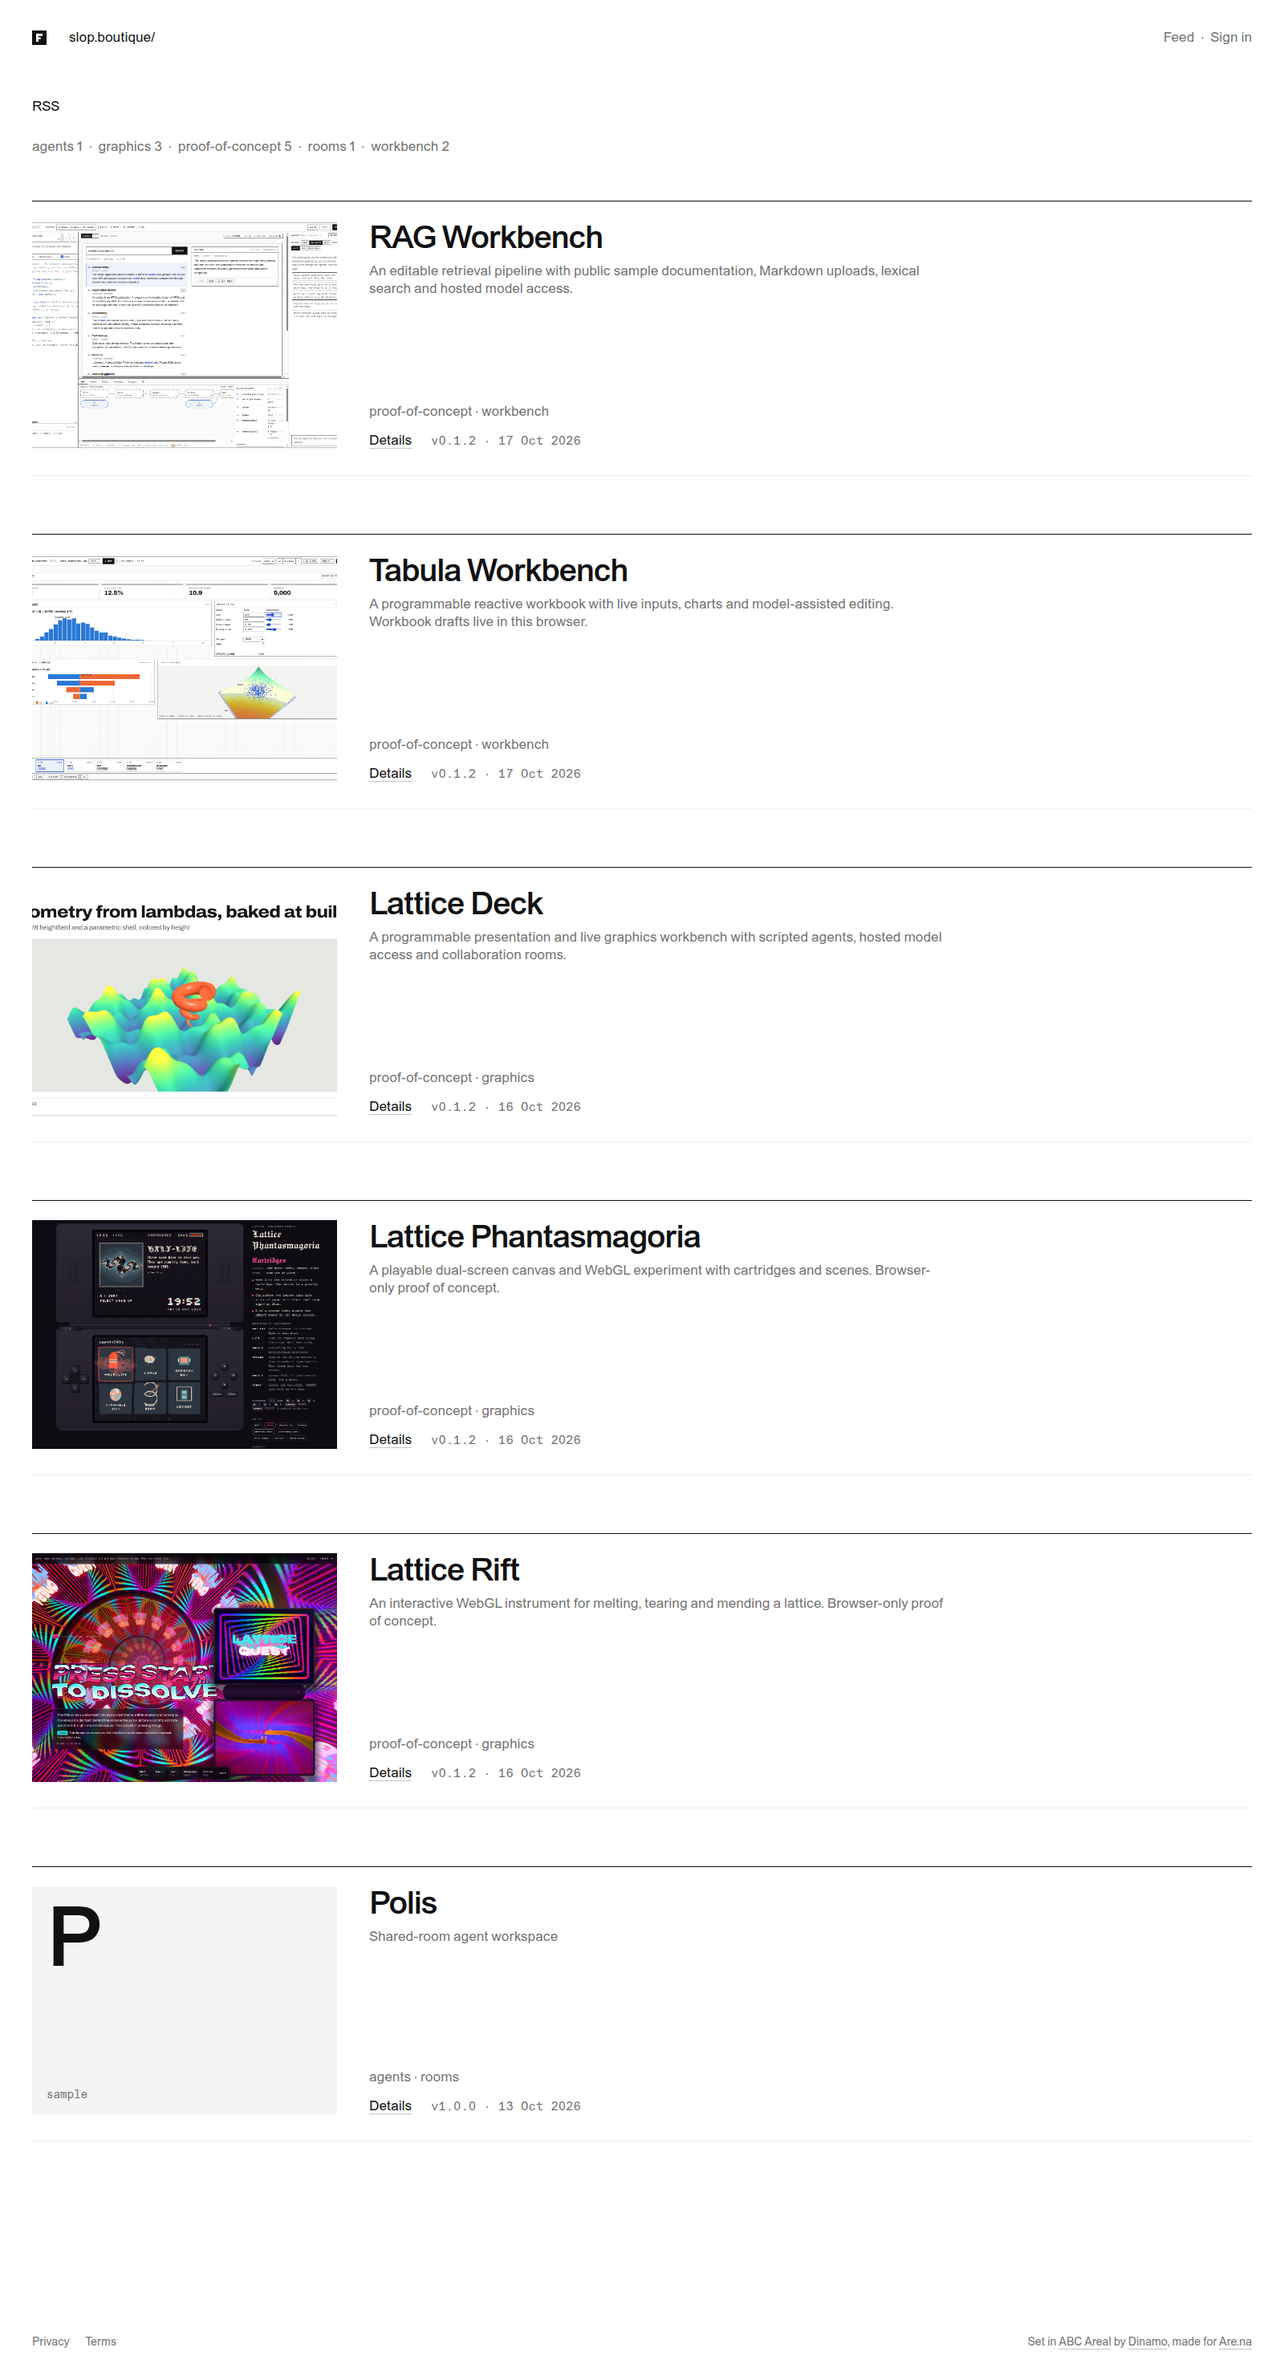
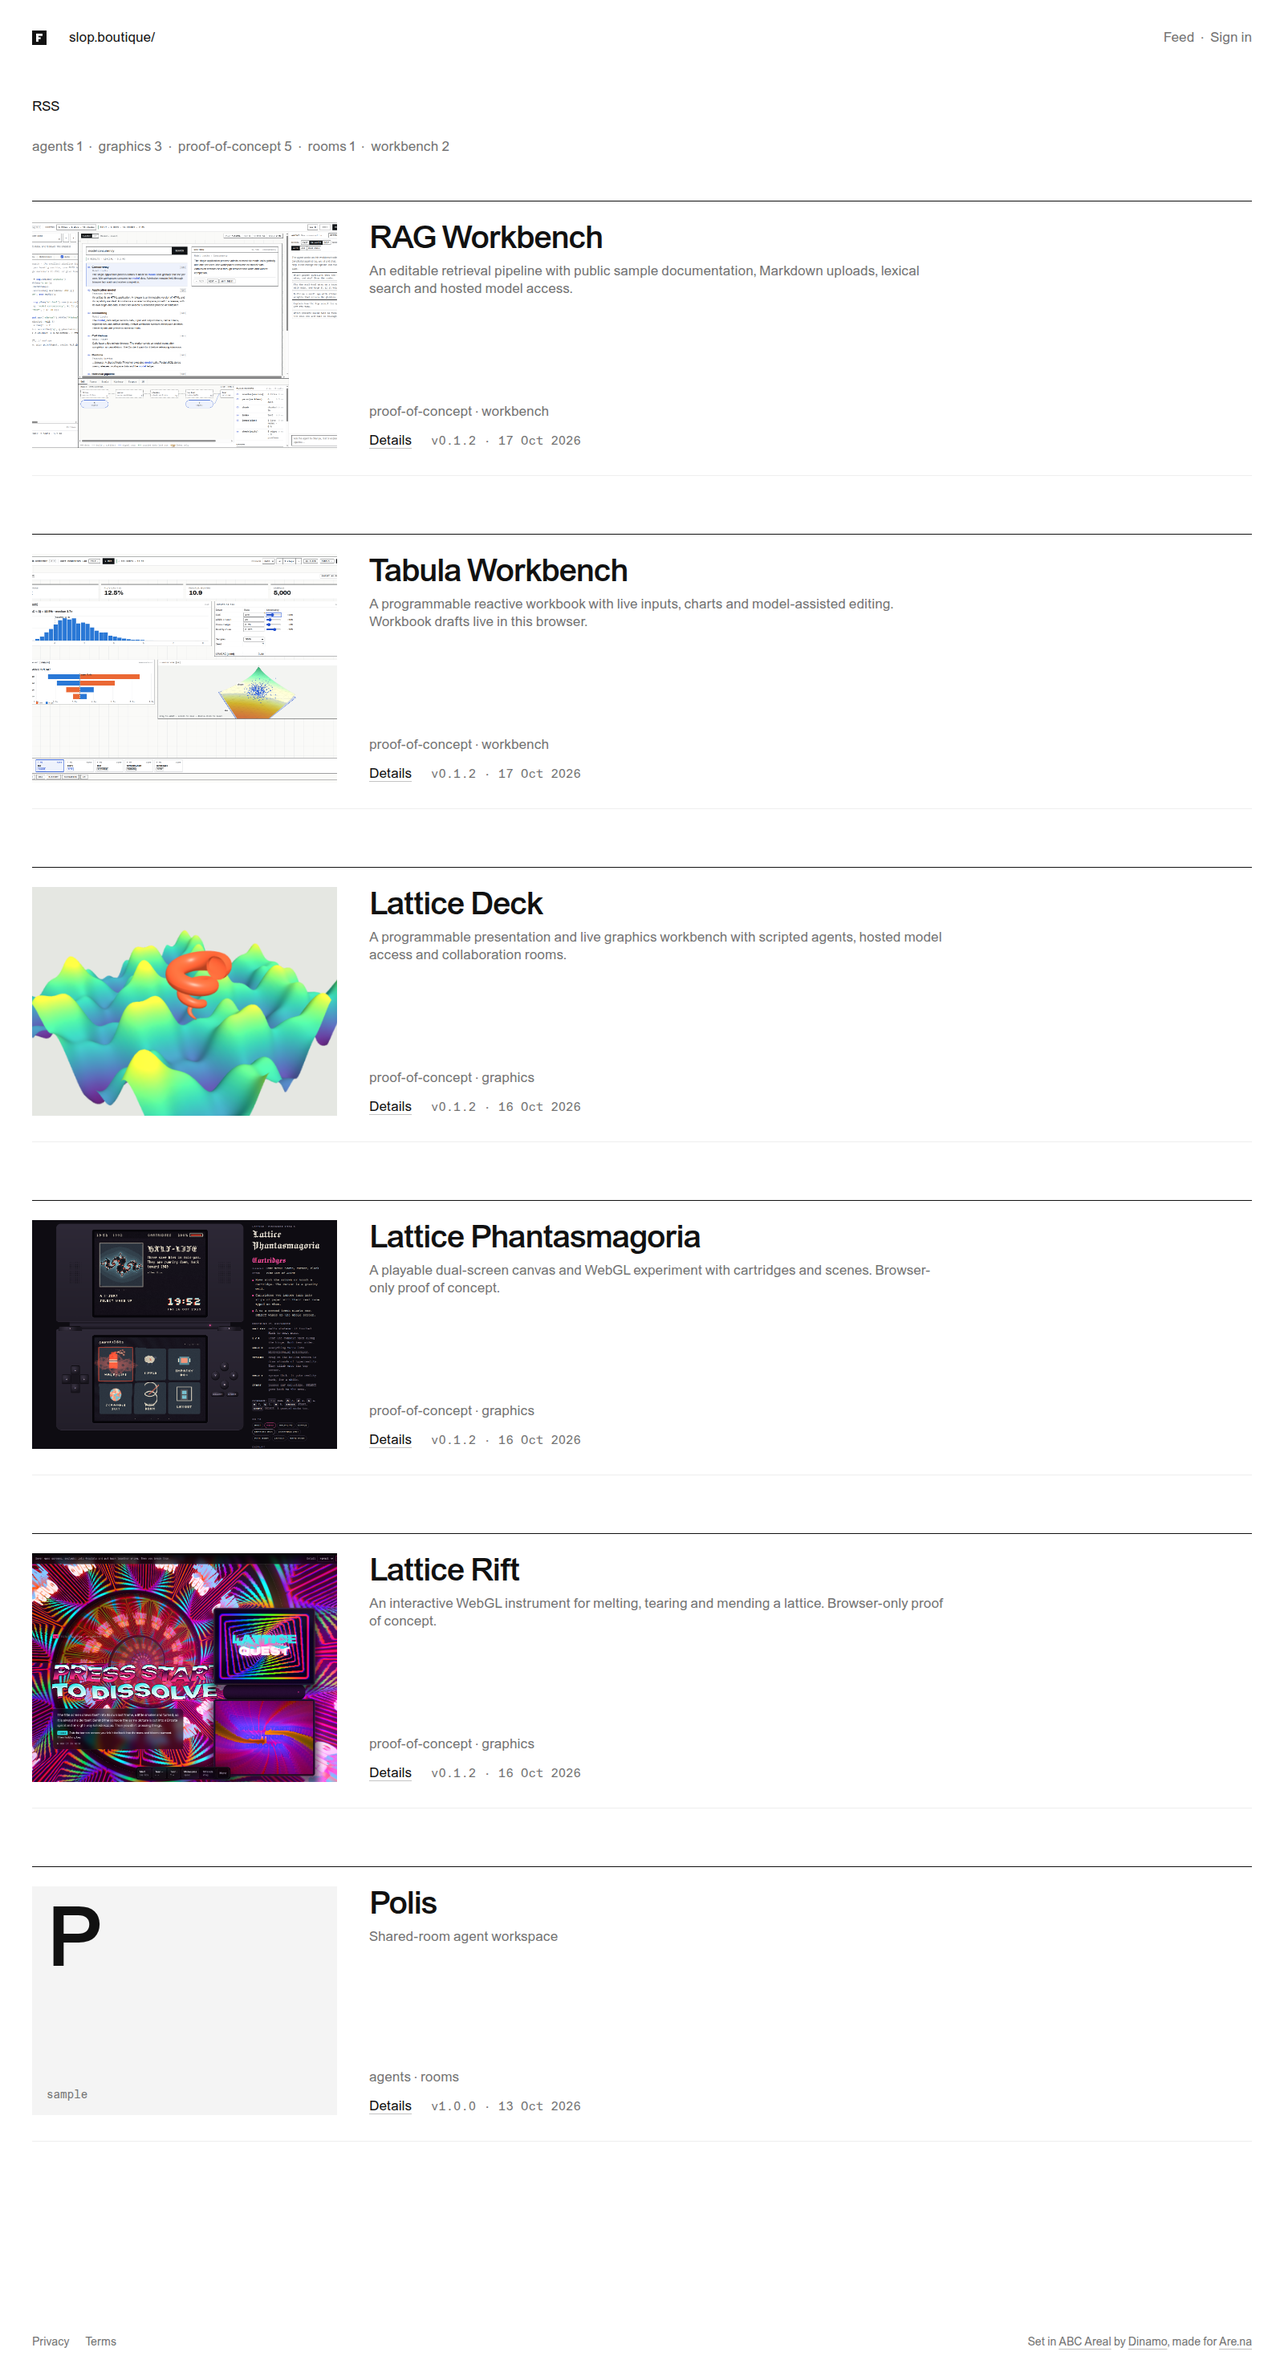
docs: record public gallery refinement and verified production rollout

Changed region(s): [[0.0, 0.373, 0.2812, 0.4973]]

diff --git a/ttmp/2026/10/16/FRANCOIS-009--import-real-html-artifacts-as-hosted-proofs-of-concept/scripts/07-capture-showcase.js b/ttmp/2026/10/16/FRANCOIS-009--import-real-html-artifacts-as-hosted-proofs-of-concept/scripts/07-capture-showcase.js
@@ -51,6 +51,7 @@ async (page) => {
         await f.locator('.preset-menu button').filter({hasText:preset}).first().click();
         await p.waitForTimeout(800);await f.getByTitle('Present: hide the panels',{exact:true}).click();await p.waitForTimeout(1300);
         await shot(p,name,f.locator('.ls-slide'));
+        if(preset==='Procedural 3D')await shot(p,'lattice-deck-cover',f.locator('.ls-slide canvas'));
       }
     }finally{await p.close();}
   }

diff --git a/ttmp/2026/10/16/FRANCOIS-009--import-real-html-artifacts-as-hosted-proofs-of-concept/scripts/09-publish-galleries.py b/ttmp/2026/10/16/FRANCOIS-009--import-real-html-artifacts-as-hosted-proofs-of-concept/scripts/09-publish-galleries.py
@@ -9,7 +9,8 @@ TICKET = Path(__file__).resolve().parents[1]
 REPO = next(p for p in TICKET.parents if (p / 'go.mod').is_file())
 parser = argparse.ArgumentParser()
 parser.add_argument('--token-file', required=True)
-parser.add_argument('--admin-token-file', required=True)
+parser.add_argument('--admin-token-file', help='Also enable bounded tours; requires explicit administrative approval')
+parser.add_argument('--artifact', help='Update only this artifact when refining a gallery')
 args = parser.parse_args()
 BASE = 'https://slop.boutique'
 plan = json.loads((TICKET / 'sources/showcase.json').read_text())
@@ -34,6 +35,8 @@ def cli(*command, admin=False):
 
 for app in plan['artifacts']:
     slug = app['id']
+    if args.artifact and slug != args.artifact:
+        continue
     current = cli('artifacts', 'show', slug)[0]
     if current['artifact'].get('pageDraft'):
         raise RuntimeError(slug + ' has an existing unpublished page draft; preserve it')
@@ -83,22 +86,23 @@ for app in plan['artifacts']:
     save()
     print('Published gallery/public release', slug, len(media_ids), flush=True)
 
-# The user explicitly approved the separate admin token for this one setting.
-current = cli('settings', 'show', admin=True)[0]
-doc = current['document']
-before = json.loads(json.dumps(doc))
-if not doc['demo']['enabled']:
-    doc['demo']['enabled'] = True
-    settings_file = Path('/tmp/francois-009-private/tours-settings.json')
-    settings_file.write_text(json.dumps(doc))
-    settings_file.chmod(0o600)
-    cli('settings', 'apply', '--file', str(settings_file), '--base', str(current['revision']), '--yes', admin=True)
-after = cli('settings', 'show', admin=True)[0]
-expected = json.loads(json.dumps(before))
-expected['demo']['enabled'] = True
-assert after['document'] == expected, 'Only demo.enabled may change'
-receipt['tours'] = {'beforeRevision': current['revision'], 'revision': after['revision'],
-                    'before': before['demo'], 'after': after['document']['demo'],
-                    'onlyDemoEnabledChanged': True}
-save()
-print('Enabled bounded public tours, revision', after['revision'], flush=True)
+if args.admin_token_file:
+    # The user explicitly approved the separate admin token for this setting.
+    current = cli('settings', 'show', admin=True)[0]
+    doc = current['document']
+    before = json.loads(json.dumps(doc))
+    if not doc['demo']['enabled']:
+        doc['demo']['enabled'] = True
+        settings_file = Path('/tmp/francois-009-private/tours-settings.json')
+        settings_file.write_text(json.dumps(doc))
+        settings_file.chmod(0o600)
+        cli('settings', 'apply', '--file', str(settings_file), '--base', str(current['revision']), '--yes', admin=True)
+    after = cli('settings', 'show', admin=True)[0]
+    expected = json.loads(json.dumps(before))
+    expected['demo']['enabled'] = True
+    assert after['document'] == expected, 'Only demo.enabled may change'
+    receipt.setdefault('tours', {'beforeRevision': current['revision'], 'revision': after['revision'],
+                                'before': before['demo'], 'after': after['document']['demo'],
+                                'onlyDemoEnabledChanged': True})
+    save()
+    print('Enabled bounded public tours, revision', after['revision'], flush=True)

diff --git a/ttmp/2026/10/16/FRANCOIS-009--import-real-html-artifacts-as-hosted-proofs-of-concept/reference/02-screenshot-and-report-evidence-index.md b/ttmp/2026/10/16/FRANCOIS-009--import-real-html-artifacts-as-hosted-proofs-of-concept/reference/02-screenshot-and-report-evidence-index.md
@@ -67,7 +67,7 @@ The original RAG corpus is excluded, including notes marked publish:false. The p
 
 ## Curated public covers and galleries
 
-A second capture pass responds to the request for attractive screenshots and multiple views per app. Sixteen actual application images are published: one cover per app, two further gallery views for Rift/Phantasmagoria/Deck/RAG, and three further views for Tabula. Workspaces use the production HTML hashes, built-in examples and the public sample corpus. Deck/Tabula figures use direct slide-element crops; other figures use a 1800×1125 viewport. These are browser captures, not mockups or retouched illustrations.
+A second capture pass responds to the request for attractive screenshots and multiple views per app. Seventeen actual application images are published: one cover per app, two further gallery views for Rift/Phantasmagoria/RAG, and three further views for Deck and Tabula. Deck uses a scene-only cover crop so catalog thumbnails do not truncate the slide headline. Workspaces use the production HTML hashes, built-in examples and the public sample corpus. Deck/Tabula figures use direct slide-element crops; other figures use a 1800×1125 viewport. These are browser captures, not mockups or retouched illustrations.
 
 The image-selection manifest [sources/showcase.json](../sources/showcase.json) records captions, dimensions, PNG hashes and source HTML hashes. The [CLI publication receipt](../various/gallery-publication-receipt.json) records actual media IDs, cover/gallery order, public release IDs and the preserved tour policy. The [public verification receipt](../various/public-gallery-verification.json) records unauthenticated page/image/download checks and the real bounded tour.
 
@@ -75,8 +75,10 @@ The image-selection manifest [sources/showcase.json](../sources/showcase.json) r
 | --- | --- | --- |
 | lattice-rift | [rift-title](../various/showcase/rift-title.png), [rift-arcade](../various/showcase/rift-arcade.png), [rift-world](../various/showcase/rift-world.png) | [View](https://slop.boutique/apps/lattice-rift) |
 | lattice-phantasmagoria | [phantasmagoria-menu](../various/showcase/phantasmagoria-menu.png), [phantasmagoria-cartridge](../various/showcase/phantasmagoria-cartridge.png), [phantasmagoria-kipple](../various/showcase/phantasmagoria-kipple.png) | [View](https://slop.boutique/apps/lattice-phantasmagoria) |
-| lattice-deck | [lattice-deck-procedural](../various/showcase/lattice-deck-procedural.png), [lattice-deck-motion](../various/showcase/lattice-deck-motion.png), [lattice-deck-charts](../various/showcase/lattice-deck-charts.png) | [View](https://slop.boutique/apps/lattice-deck) |
+| lattice-deck | [lattice-deck-cover](../various/showcase/lattice-deck-cover.png), [lattice-deck-procedural](../various/showcase/lattice-deck-procedural.png), [lattice-deck-motion](../various/showcase/lattice-deck-motion.png), [lattice-deck-charts](../various/showcase/lattice-deck-charts.png) | [View](https://slop.boutique/apps/lattice-deck) |
 | tabula-workbench | [tabula-overview](../various/showcase/tabula-overview.png), [tabula-story](../various/showcase/tabula-story.png), [tabula-sensitivity](../various/showcase/tabula-sensitivity.png), [tabula-landscape](../various/showcase/tabula-landscape.png) | [View](https://slop.boutique/apps/tabula-workbench) |
 | rag-workbench | [rag-search](../various/showcase/rag-search.png), [rag-trace](../various/showcase/rag-trace.png), [rag-corpus](../various/showcase/rag-corpus.png) | [View](https://slop.boutique/apps/rag-workbench) |
 
 Use these curated images for the main vault-report figures. Retain the earlier startup/production screenshots as implementation evidence. Final public presentation captures include [the illustrated catalog](../various/showcase/catalog-public-covers.png), [the Deck gallery](../various/showcase/deck-public-gallery.png), and [an anonymous RAG tour](../various/showcase/rag-anonymous-tour.png).
+
+The final [portal rollout verification](../various/portal-rollout-verification.json) supersedes the earlier image-count check: all seventeen images load, each app has exactly one current HTML download, and two fresh anonymous instance titles exactly match their public pages. It also verifies twenty-minute tour lifetimes and title cleanup on Close, without model calls. [Deployment evidence](../various/portal-deployment-receipt.json) identifies the source/GitOps commits, running image and healthy replica. [Deck instance](../various/showcase/lattice-deck-instance-title.png) and [RAG instance](../various/showcase/rag-workbench-instance-title.png) show the launched applications; document.title assertions come from the JSON receipt because browser viewport screenshots do not include tab chrome.

diff --git a/ttmp/2026/10/16/FRANCOIS-009--import-real-html-artifacts-as-hosted-proofs-of-concept/reference/01-implementation-diary.md b/ttmp/2026/10/16/FRANCOIS-009--import-real-html-artifacts-as-hosted-proofs-of-concept/reference/01-implementation-diary.md
@@ -368,3 +368,18 @@ Start with pkg/catalog/pages.go, pkg/catalog/instances.go, ui/catalog/instances.
 ### Technical details
 
 Source PR: https://github.com/go-go-golems/francois/pull/8. Final browser title format is artifact.Title + " · " + session.brand. No additional settings fields, migrations, queue or service were introduced. Current public HTML/media and tour policy were already verified independently of this service-code rollout.
+
+
+#### Release and cover refinement checkpoint
+
+All source checks passed on final head 0ac2190, including the image build, GoSec, CodeQL, tests and lint. The P1 review thread is resolved after the publication-time fix. PR #8 merged as 0440798cc622b214a74136f10344e058895eddd1; the normal main-branch image/GitOps release is in progress. gh pr edit encountered the installed client's deprecated Projects (classic) GraphQL field; a REST PATCH updated the PR title/description successfully. No required checks were bypassed.
+
+The catalog's fixed-aspect thumbnail cropped the heading in Deck's full-slide cover. Added a direct canvas screenshot as its cover and retained the complete procedural slide in the gallery. There are now seventeen curated images: five covers and twelve gallery entries. The Studio-token CLI updated only Deck's images; all free-sample release HTML hashes and tour settings remain unchanged. The earlier sixteen-image checkpoint remains the historical first publication.
+
+#### Production rollout and final verification checkpoint
+
+The normal main-branch image workflow 38985147906 published ghcr.io/go-go-golems/francois:sha-0440798. GitOps PR https://github.com/wesen/2026-03-27--hetzner-k3s/pull/360 passed validation and merged as 083adeaccd3dc3247b7d5f7eef05151ebd5f154d. Its sole deployment change pins the image from sha-fda5382 to sha-0440798. The deployment reports one desired, updated, ready and available replica; Argo CD reports that GitOps revision Synced and Healthy. No settings or schema changes were made by this release.
+
+Ran node scripts/11-verify-portal-rollout.mjs (from the ticket directory) against production in a fresh unauthenticated Chromium context; exit 0. All five pages return 200, each exposes exactly one Download HTML and no Manifest link, and all seventeen cover/gallery images load. New anonymous Deck and RAG tours have document titles exactly equal to their corresponding public page titles: Lattice Deck · slop.boutique and RAG Workbench · slop.boutique. Both retain the exact twenty-minute expiry, and Close restores a non-instance page title. These two checks make no model calls. Existing open instance tabs need a refresh to load the updated portal JavaScript; the user's existing tab was left untouched.
+
+Evidence is various/portal-rollout-verification.json and various/portal-deployment-receipt.json. Refreshed the illustrated catalog and Deck-gallery captures, and added the two instance captures. The evidence index links the final receipts and figures for the later vault report. No new failure occurred during this checkpoint. Source implementation is deployed from PR #8; the separate import branch retains the reproducible source archive and report evidence. No requested implementation or deployment work remains for this ticket's follow-ups.

diff --git a/ttmp/2026/10/16/FRANCOIS-009--import-real-html-artifacts-as-hosted-proofs-of-concept/design-doc/01-artifact-import-adaptation-and-publication-guide.md b/ttmp/2026/10/16/FRANCOIS-009--import-real-html-artifacts-as-hosted-proofs-of-concept/design-doc/01-artifact-import-adaptation-and-publication-guide.md
@@ -151,7 +151,7 @@ The initial functional qualification is recorded in `various/production-receipt.
 
 Public discovery, RSS and the current HTML downloads require no login. After the user requested public access, all five artifacts were marked listed, free-plan eligible and demo-enabled; the existing global demo switch was enabled at settings revision 2. Tours retain 20 minutes, three starts per user/address per hour, five credits per tour, a shared daily budget of 200 and a maximum of 20 active tours. Global model/storage limits remain unchanged. Explicitly approved one-day admin credentials were used only for that single settings change; all content publication used the Studio token and Francois CLI.
 
-`scripts/07-capture-showcase.js` creates the sixteen curated images and `sources/showcase.json` records their captions/hashes. `08-bootstrap-cli-token.mjs` bootstraps a one-day Studio token; its --admin mode requires explicit approval and was approved for the tour switch. `09-publish-galleries.py` performs media upload, page-set/page-publish, public free-sample release publication and the revision-checked setting update through `go run ./cmd/francois catalog ... --format json`. `10-verify-public-galleries.mjs` checks anonymous discovery, image loading, actual HTML hashes and one bounded tour. Tokens remain in private temporary files and are never committed.
+`scripts/07-capture-showcase.js` creates the seventeen curated images and `sources/showcase.json` records their captions/hashes. `08-bootstrap-cli-token.mjs` bootstraps a one-day Studio token; its --admin mode requires explicit approval and was approved for the tour switch. `09-publish-galleries.py` performs media upload, page-set/page-publish, public free-sample release publication and the revision-checked setting update through `go run ./cmd/francois catalog ... --format json`. `10-verify-public-galleries.mjs` checks anonymous discovery, image loading, actual HTML hashes and one bounded tour. Tokens remain in private temporary files and are never committed.
 
 
 ## Small public-page follow-up

diff --git a/ttmp/2026/10/16/FRANCOIS-009--import-real-html-artifacts-as-hosted-proofs-of-concept/changelog.md b/ttmp/2026/10/16/FRANCOIS-009--import-real-html-artifacts-as-hosted-proofs-of-concept/changelog.md
@@ -27,3 +27,11 @@ Published sixteen curated screenshots as five covers and eleven gallery images u
 ### Related Files
 
 - /home/manuel/code/wesen/go-go-golems/francois/ttmp/2026/10/16/FRANCOIS-009--import-real-html-artifacts-as-hosted-proofs-of-concept/various/gallery-publication-receipt.json — CLI-publication-and-policy-evidence
+
+## 2026-10-16
+
+Deployed PR #8 via image sha-0440798 and GitOps PR #360; verified matching public/instance titles, one current HTML download per app, seventeen loaded gallery images and bounded anonymous tours. Refined Deck cover and retained final screenshots/receipts for the later vault report.
+
+### Related Files
+
+- /home/manuel/code/wesen/go-go-golems/francois/ttmp/2026/10/16/FRANCOIS-009--import-real-html-artifacts-as-hosted-proofs-of-concept/various/portal-rollout-verification.json — Final live browser verification
